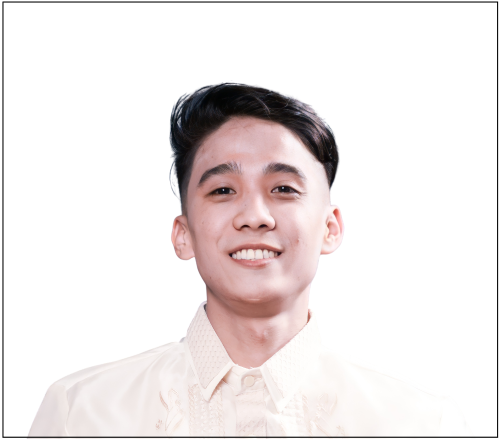
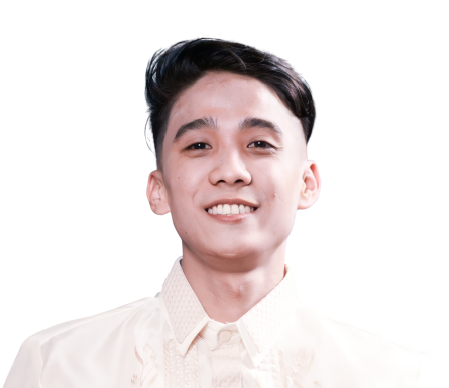
final commit

diff --git a/src/style.css b/src/style.css
@@ -13,14 +13,113 @@ body{
 
 
 .card{
-    width: 400px;
-    margin: 0 auto;
+    width: 317px;
+    margin: 25px auto;
+    background: #1A1B21;
+    height: 100%;
+    
 }
 
 .info-container{
+   
     text-align: center;
+    align-items: center;
     
 }
+
 .info-image{
+    height: 317px;
+    width: 317px;
+    border-radius: 10px 10px 0px 0px;
+}
+
+
+.info-details-name{
+    font-size: 25px;
+    font-weight: 700;
+    line-height: 30px;
+}
+
+.info-details-profession{
+    color: #F3BF99;
+    font-size: 12.8px;
+}
+
+
+.info-details-email{
+    margin-top: 8px;
+    font-weight: 400;
+    font-size: 10.24px;
+}
+
+.info-button{
+    width: 120px;
+    height: 34px;
+    margin-top: 15px;
+    margin-left: 10px;
+    box-shadow: 0px 1px 2px rgba(0, 0, 0, 0.05);
+    border-radius: 6px;
+}
+
+.info-button.linkedin{
+    background: #5093E2;
+    color: white;
    
+}
+
+.about-container{
+    width: 247px;
+    text-align: justify;
+    align-items: center;
+    margin: 25px auto;
+}
+
+
+
+.about1{
+    color: white;
+    font-size: 16px;
+}
+
+.about2{
+    font-size: 10.24px;
+    color: #DCDCDC;
+    font-weight: 400;
+    line-height: 150%;  
+}
+
+.interest-container{
+    width: 247px;
+    text-align: justify;
+    align-items: center;
+    margin: 25px auto;
+}
+
+.interest1{
+    color: white;
+    font-size: 16px;
+}
+
+.interest2{
+    font-size: 10.24px;
+    color: #DCDCDC;
+    font-weight: 400;
+    line-height: 150%;  
+}
+
+.footer-container{
+    height: 64px;
+    width: 317px; 
+    background: #161619;
+    border-radius: 0px 0px 10px 10px;
+    text-align: center;
+
+}
+
+
+.footer-container .icon{
+    font-size: 50px;
+    margin: 0 5px;
+    color: #918E9B;
+    background: black;
 }

diff --git a/src/components/Info.js b/src/components/Info.js
@@ -1,13 +1,18 @@
 import React from "react"
+import ProfileImage from '../images/formal.png'
 
 export default function Info(){
     return(
         <>  
             <div className="info-container">
-                <img src="../images/Formal.png" className="info-image"/>
-                <h2> Jiolo Miles Ngo</h2>
-                <h3>Frontend Developer</h3>
-                <h5>jiolomilesngo001@gmail.com</h5>
+                <img src={ProfileImage} className="info-image" />
+                
+                <div className="info-details-name"> Jiolo Miles Ngo</div>
+                <div className="info-details-profession">Frontend Developer</div>
+                <div className="info-details-email">jiolomilesngo001@gmail.com</div>
+                <a href="https://mail.google.com"><button className="info-button email"><i class="fa-solid fa-envelope"></i> Email</button></a>
+                <a href="https://github.com/jiolongo">   <button className="info-button linkedin"><i class="fa-brands fa-linkedin"></i> LinkedIn</button></a>
+               
             </div>
         </>
         

diff --git a/src/components/Footer.js b/src/components/Footer.js
@@ -1,0 +1,17 @@
+import React from "react"
+
+
+function Footer(){
+    return(
+        <>
+        <div className="footer-container">
+            <a href="https://twitter.com/JioloNgo"><i className="icon fa-brands fa-square-twitter"></i></a>
+            <a href="https://www.facebook.com/jiolongo"><i className="icon fa-brands fa-square-facebook"></i> </a>
+            <i className="icon fa-brands fa-square-instagram"></i>
+            <a href="https://github.com/jiolongo"> <i className="icon fa-brands fa-square-github"></i> </a>
+        </div>
+        </>
+    )
+}
+
+export default Footer

diff --git a/src/App.js b/src/App.js
@@ -1,8 +1,8 @@
 import React from 'react'
 import Info from "./components/Info"
-//import About from "./components/About"
-//import Interest from "./components/Interest"
-//import Footer from "./components/Footer"
+import About from "./components/About"
+import Interest from "./components/Interest"
+import Footer from "./components/Footer"
 import "./style.css"
 
 
@@ -11,9 +11,9 @@ import "./style.css"
       <>
       <div class="card">
       <Info />
-      {/* <About />
+      <About />
       <Interest />
-      <Footer /> */}
+      <Footer /> 
 
       </div>
       </>  

diff --git a/public/index.html b/public/index.html
@@ -11,7 +11,7 @@
     />
     <link rel="apple-touch-icon" href="%PUBLIC_URL%/logo192.png" />
     <link rel="manifest" href="%PUBLIC_URL%/manifest.json" />
-    
+    <link rel="stylesheet" href="https://cdnjs.cloudflare.com/ajax/libs/font-awesome/6.1.2/css/all.min.css" integrity="sha512-1sCRPdkRXhBV2PBLUdRb4tMg1w2YPf37qatUFeS7zlBy7jJI8Lf4VHwWfZZfpXtYSLy85pkm9GaYVYMfw5BC1A==" crossorigin="anonymous" referrerpolicy="no-referrer" />
     <title>Digital Business Card</title>
   </head>
   <body>

diff --git a/src/components/About.js b/src/components/About.js
@@ -1,0 +1,15 @@
+import React from "react"
+
+
+function About(){
+    return(
+        <>
+        <div className="about-container">
+            <div className="about1">About</div>
+            <div className="about2">I am frontend developer with a particular interest im making things simple and automatng daily task. I try to keep up with security and best practices, and am always looking for new things to learn.</div>
+        </div>
+        </>
+    )
+}
+
+export default About

diff --git a/src/components/Interest.js b/src/components/Interest.js
@@ -1,0 +1,17 @@
+import React from "react"
+
+
+function Interest(){
+    return(
+        <>
+        <div className="interest-container">
+            <div className="interest1">Interest</div>
+            <div className="interest2">Food expert. Music scholar. Reacder. Internet fanatic. Bacon buff. Entrepreneur. Travel geek. Pop culture ninja. Coffee fanatic.</div>
+        </div>
+
+        </>
+    )
+}
+
+
+export default Interest
